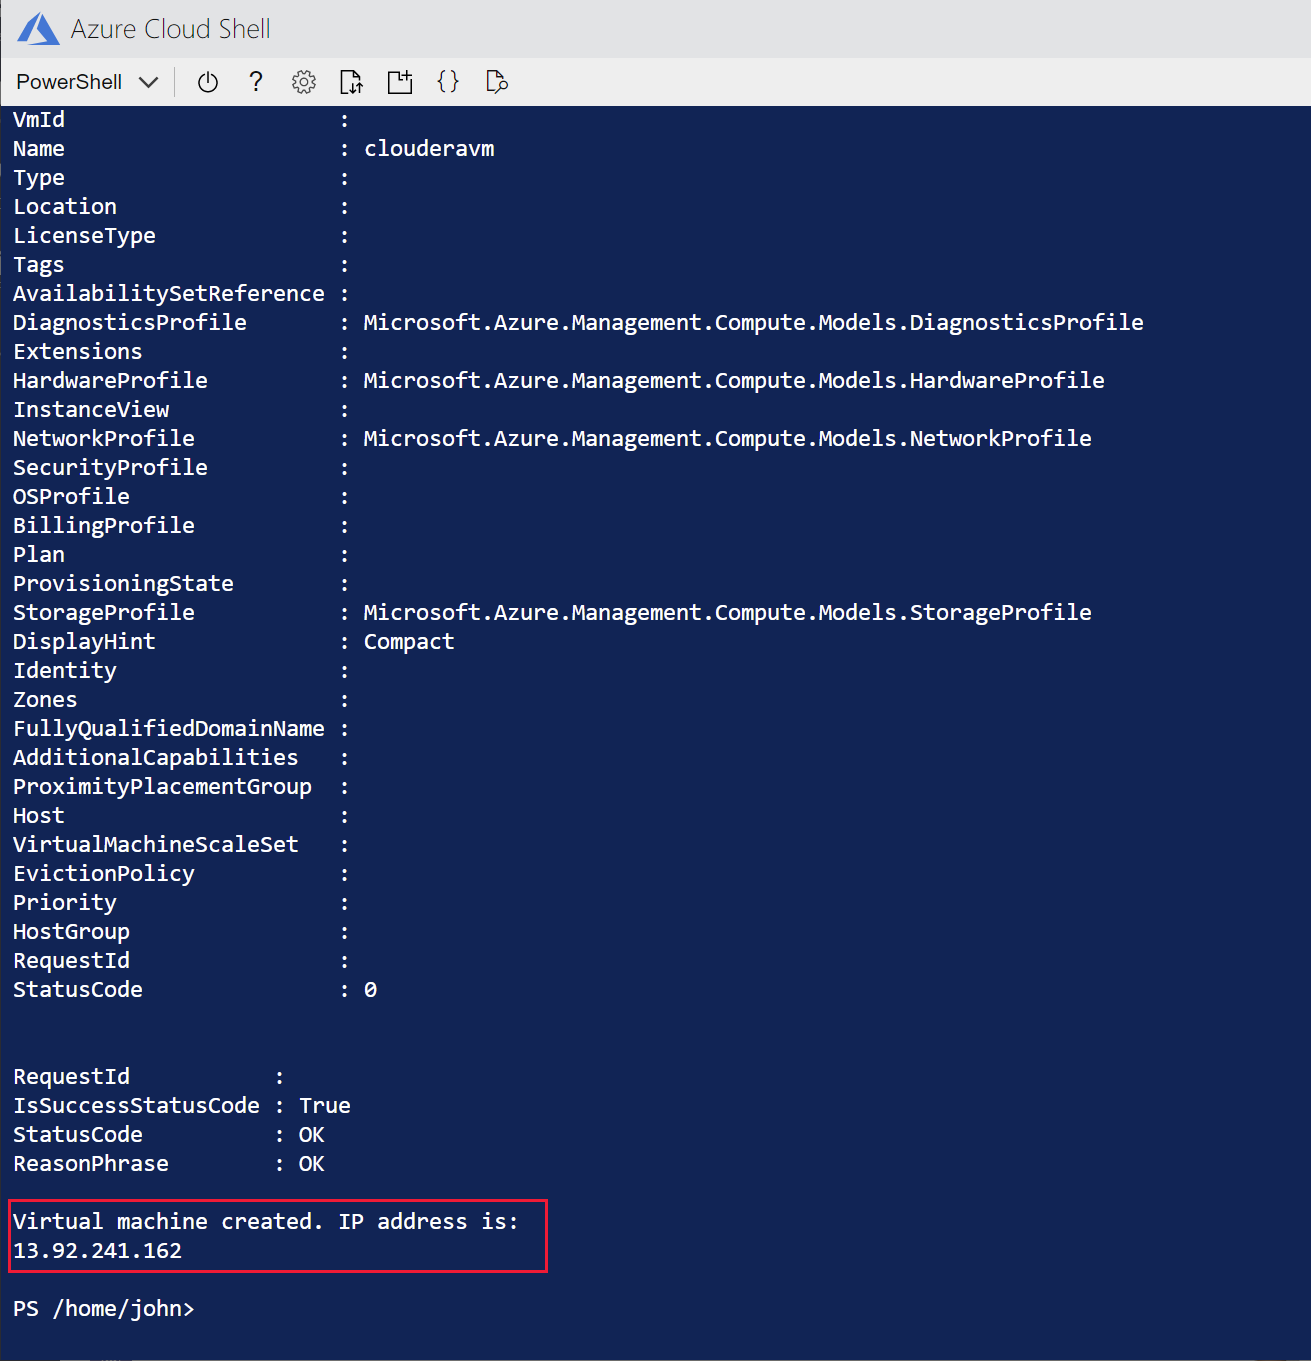
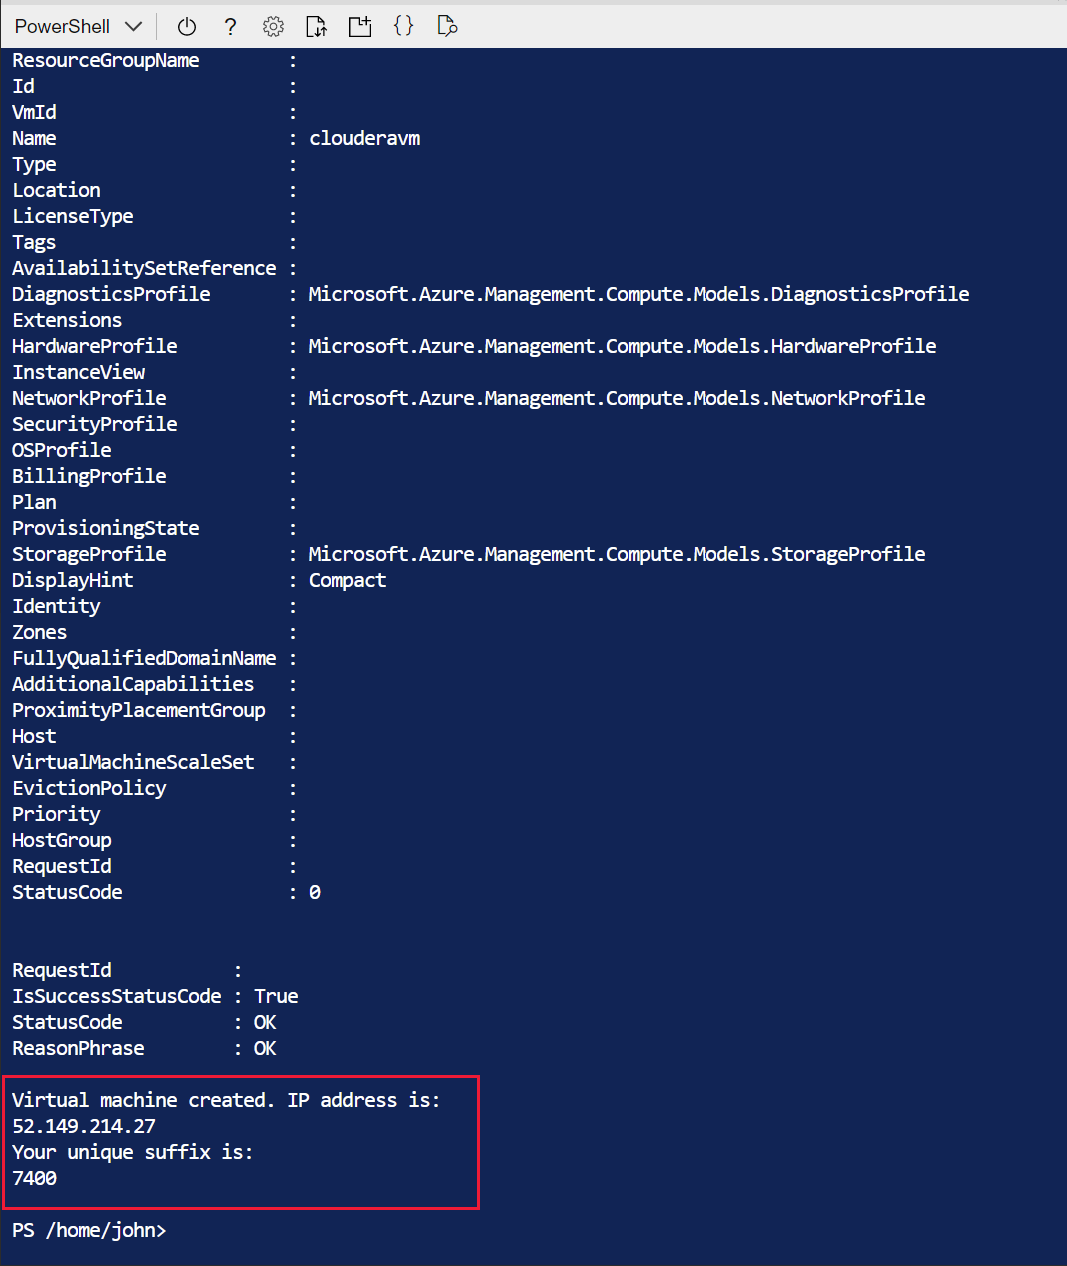
updates to Mapr lab to allow multiple users to share the same subscription

diff --git a/MapRMigration/Instructions/1-KafkaMigration.md b/MapRMigration/Instructions/1-KafkaMigration.md
@@ -127,6 +127,10 @@ In this task, you'll create a new virtual network and subnet to host the cluster
 
 1. On the **Basics** tab of the **Create virtual network** page, enter the following settings, and then select **Next : IP Addresses**:
 
+
+    > [!NOTE]
+    > In this table, replace the **9999** with the suffix that was generated to uniquely identify your resources as part of the lab setup.
+    
     | Field | Value|
     |-|-|
     | Subscription | Select your subscription |
@@ -161,10 +165,10 @@ In this task, you'll create a new virtual network and subnet to host the cluster
     |-|-|
     | Subscription | Select your subscription |
     | Resource group | workshoprg*9999* |
-    | Storage account name | clusterstorage*9999*, where *9999* is a random four digit number you select to avoid clashing with other storage accounts |
-    | Location | Select the same region used by the MapR virtual machine and the **workshoprg*9999*** resource group |
+    | Storage account name | clusterstorage*9999*, where *9999* is your unique suffix |
+    | Location | Select the same region used by the Cloudera virtual machine and the **workshoprg*9999*** resource group |
     | Performance | Standard |
-    | Account kind | StorageV2 (general purpose v2) |
+    | Account Kind | StorageV2 (general purpose v2) |
     | Replication | Zone-redundant storage (ZRS) |
 
 1. On the **Networking** tab, accept the default settings, and then select **Next : Data protection**.
@@ -232,8 +236,8 @@ In this task, you'll create a new virtual network and subnet to host the cluster
     |-|-|
     | Subscription | Select your subscription |
     | Resource group | workshoprg*9999* |
-    | Cluster name | kafkacluster*9999*, where *9999* is the same random four digit number you selected when you created the storage account (if necessary, you can use a different number, but for consistency try and reuse the same value if possible) |
-    | Region | Select the same region used by the MapR virtual machine and the **workshoprg*9999*** resource group |
+    | Cluster name | kafkacluster*9999*, where *9999* is your unique suffix |
+    | Region | Select the same region used by the Cloudera virtual machine and the **workshoprg*9999*** resource group |
     | Cluster type | Kafka |
     | Version | Kafka 2.1.1 (HDI 4.0) |
     | Cluster login name | admin |

diff --git a/MapRMigration/Instructions/2-HiveMigration.md b/MapRMigration/Instructions/2-HiveMigration.md
@@ -270,9 +270,9 @@ Only perform the tasks in this section if you haven't performed the Kakfa Migrat
     | Field | Value|
     |-|-|
     | Subscription | Select your subscription |
-    | Resource group | workshoprg*9999* |
-    | Database name | hivedb*9999*, where *9999* is the same random four digit number you selected when you created the Kafka cluster (if necessary, you can use a different number, but for consistency try and reuse the same value if possible) |
-    | Server | Select **Create new**. In the **New Server** pane, name the server **hiveserver*9999***, set the server admin login name to **azuresa**, provide a password of your choice, and specify the same location that you have used for other resources created during this lab. |
+    | Resource group | workshoprg*9999* where *9999* is the unique number assigned to you when you created the Cloudera virtual machine |
+    | Database name | hivedb*9999* |
+    | Server | Select **Create new**. In the **New Server** pane, name the server **hiveserver*9999***, set the server admin login name to **azuresa**, provide a password of your choice, and specify the same location that you have used for other resources created during this lab. Click **OK**. |
     | Want to use SQL elastic pool | No |
     | Compute + storage | Select **Configure database**. On the **General Purpose** tab, select **Serverless**, and then click **Apply**. |
 
@@ -302,8 +302,8 @@ Only perform the tasks in this section if you haven't performed the Kakfa Migrat
     |-|-|
     | Subscription | Select your subscription |
     | Resource group | workshoprg*9999* |
-    | Cluster name | llapcluster*9999*, where *9999* is the same random four digit number you used for the SQL Database (if necessary, you can use a different number, but for consistency try and reuse the same value if possible) |
-    | Region | Select the same region used by the MapR virtual machine and the **workshoprg*9999*** resource group |
+    | Cluster name | llapcluster*9999* |
+    | Region | Select the same region used by the Cloudera virtual machine and the **workshoprg*9999*** resource group |
     | Cluster type | Interactive Query |
     | Version | Interactive Query 3.1.0 (HDI 4.0) |
     | Cluster login name | admin |

diff --git a/MapRMigration/Instructions/0-Introduction.md b/MapRMigration/Instructions/0-Introduction.md
@@ -59,7 +59,7 @@ Perform the following tasks:
 
     **NOTE: BEFORE PUBLISHING THIS WORKSHOP, REPLACE THE URL BELOW WITH THE ADDRESS OF THE GITHUB REPO HOLDING THE SCRIPT**
     ```PowerShell
-    wget https://raw.githubusercontent.com/JohnPWSharp/HDInsight-Migration-Workshops/master/Setup/maprsetup.ps1?token=AAONHQSX7NKLBP3V733IRD277RWKA -O maprsetup.ps1
+    wget https://raw.githubusercontent.com/JohnPWSharp/HDInsight-Migration-Workshops/master/Setup/maprsetup.ps1?token=AAONHQW2C2K22YNHY3VO4XLAB2NQI -O maprsetup.ps1
     ```
 
 1. In the Cloud Shell toolbar, select **Open editor**.
@@ -80,7 +80,9 @@ Perform the following tasks:
     .\maprsetup.ps1
     ```
 
-    As the script runs, you will see various messages when the resources are created. The script will take about 10 minutes to complete. When it has finished, it will display the IP address of the new virtual machine. Make a note of this address.
+    As the script runs, you will see various messages when the resources are created. The script will take about 5 minutes to complete. When it has finished, it will display the IP address of the new virtual machine. Make a note of this address.
+
+    Additionally, the script will display a unique numeric suffix which you will use for creating further resources. Make a note of this suffix as well.
 
     ![The Azure Cloud Shell in the Azure portal. The script has completed. The IP address of the new virtual machine is highlighted.](../Images/0-ScriptCompleted.png)
 
